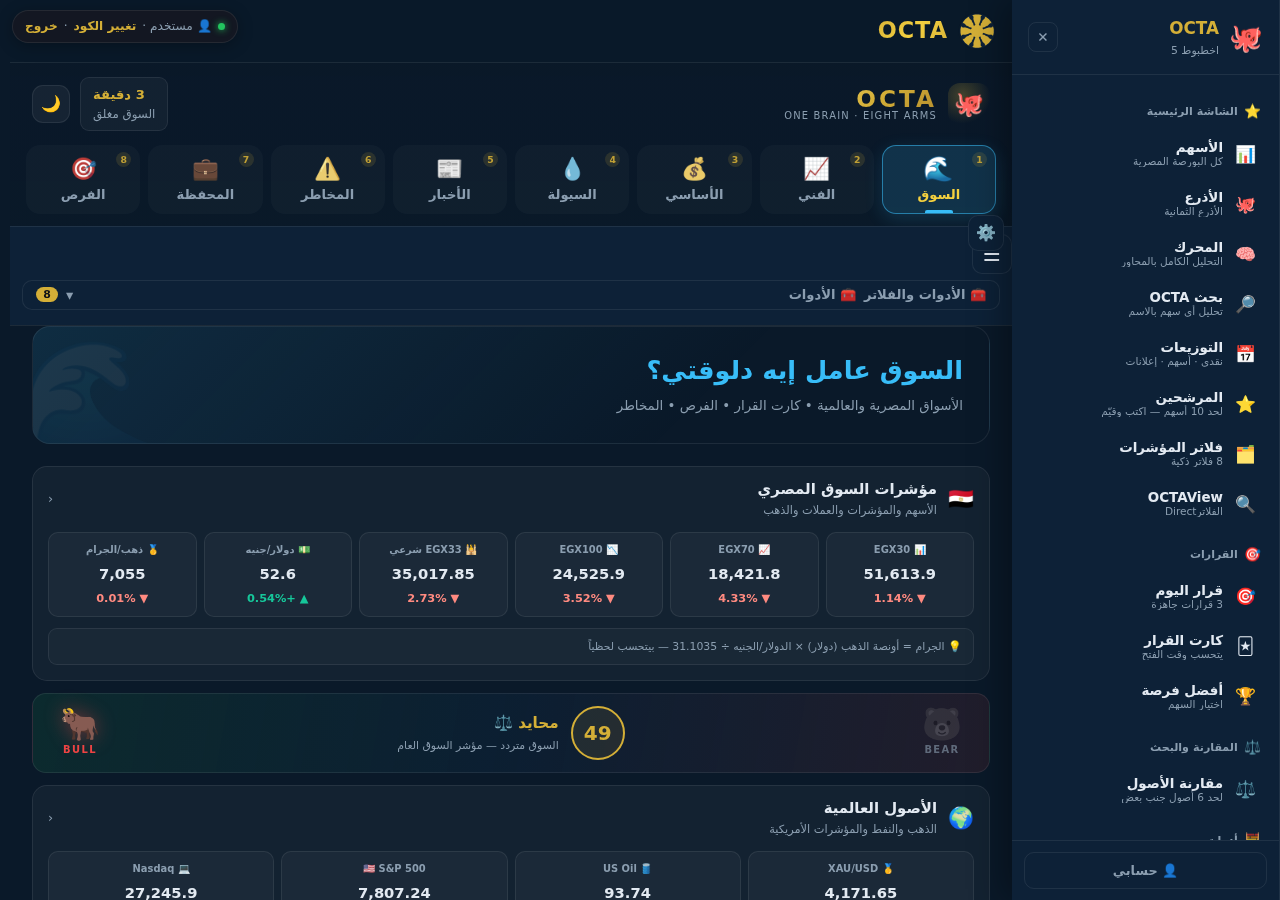
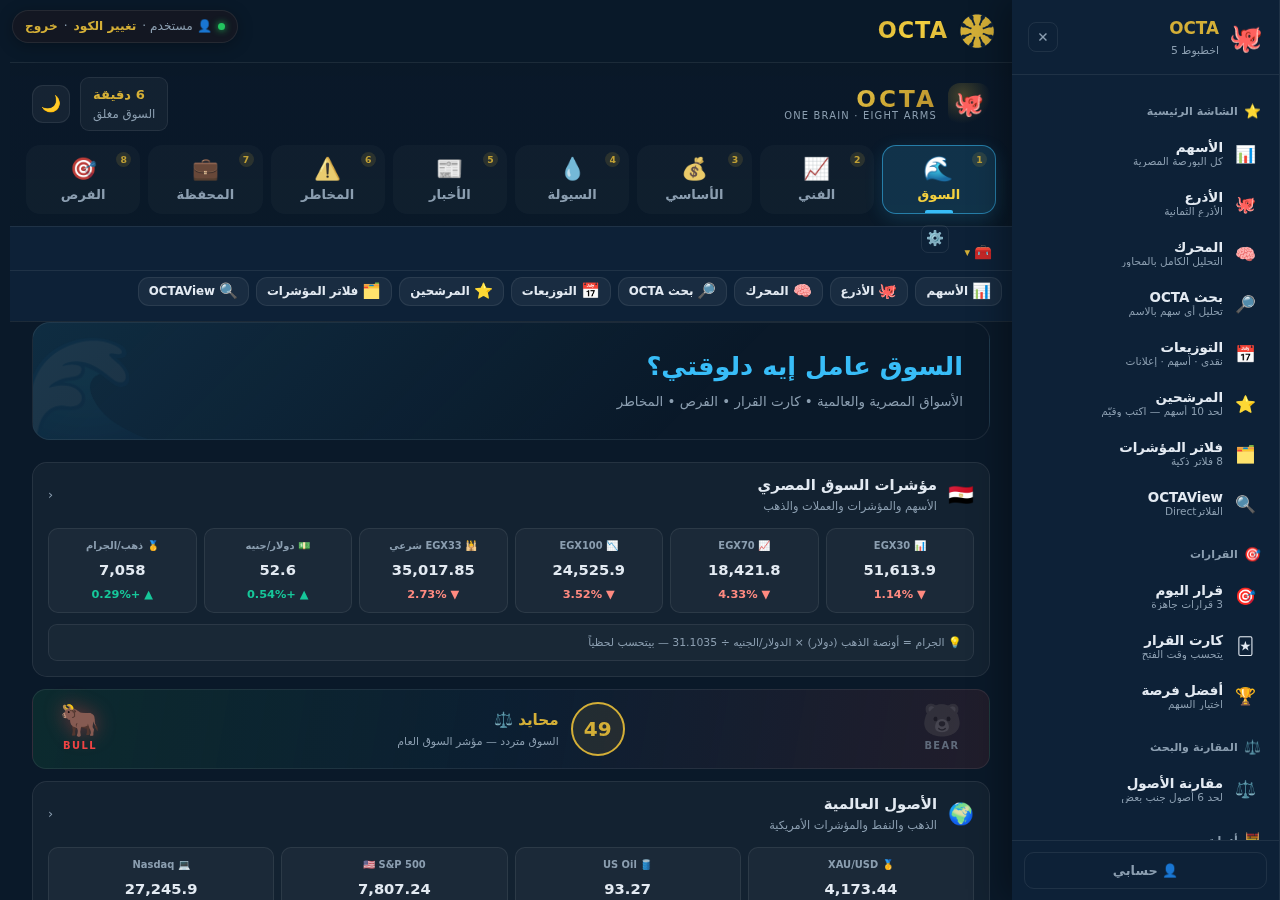
feat(ui): three controls in one row on the inline-start edge
The menu toggle lived in its own block above the toolbar while the
fold and gear sat in another, so the same header carried two rows for
what is now one control group.

☰ 🧰 ⚙ now sit side by side at the same 30px height, all flush to the
inline-start edge, with the tool row beneath them.

diff --git a/index.html b/index.html
@@ -7,7 +7,7 @@
   <script id="octa-cache-clear">
   /* 🧹 مسح كاش التطبيق — يخلي أي تعديل جديد يوصل فوراً */
   (function () {
-    var BUILD = 'v=2026105827';
+    var BUILD = 'v=2026105477';
     var KEY = 'octa_build_v1';
     try {
       var prev = localStorage.getItem(KEY);
@@ -32,11 +32,11 @@
   <link rel="icon" type="image/png" href="assets/octa-logo.png">
   <!-- CSS → assets/octa.css -->
 <!-- tokens أولاً — كل الألوان هنا -->
-<link rel="stylesheet" href="assets/octa-tokens.css?v=2026105827">
-<link rel="stylesheet" href="assets/octa.css?v=2026105827">
-  <link rel="stylesheet" href="assets/css-decide.css?v=2026105827">
-  <link rel="stylesheet" href="assets/css-screener.css?v=2026105827">
-  <link rel="stylesheet" href="assets/css-chart.css?v=2026105827">
+<link rel="stylesheet" href="assets/octa-tokens.css?v=2026105477">
+<link rel="stylesheet" href="assets/octa.css?v=2026105477">
+  <link rel="stylesheet" href="assets/css-decide.css?v=2026105477">
+  <link rel="stylesheet" href="assets/css-screener.css?v=2026105477">
+  <link rel="stylesheet" href="assets/css-chart.css?v=2026105477">
 </head>
 <body>
 
@@ -117,13 +117,14 @@
 
     <!-- ══════════ شريط الأدوات والفلاتر (من الرابط القديم — زي ما هو) ══════════ -->
     <div class="toolbar-wrap">
-      <!-- ⚙ⓘ الزرارين جنب بعض — كروت واحد مضغوط -->
+      <!-- ☰ 🧰 ⚙ — صف واحد، كلهم على الشمال بنفس الارتفاع -->
       <div class="tb-head">
+        <button class="tb-btn" onclick="sbToggle()" title="القائمة الجانبية">☰</button>
         <button class="tb-fold" id="mToolsBtn" onclick="toggleMobileTools()"
                 aria-expanded="true" aria-controls="toolbar" title="طيّ / فتح الأدوات">
           <span class="tb-f-i">🧰</span><span class="tb-f-c">▾</span>
         </button>
-        <button class="tool-cfg" id="toolCfg" onclick="openToolEditor()" title="رتّب الأدوات">⚙</button>
+        <button class="tb-btn tool-cfg" id="toolCfg" onclick="openToolEditor()" title="رتّب الأدوات">⚙</button>
       </div>
 
       <div class="toolbar" id="toolbar"></div>
@@ -1034,22 +1035,22 @@
     </div>
   </div>
 
-<script src="assets/js/octa-api.js?v=2026105827"></script>
-<script src="assets/js/octa-config.js?v=2026105827"></script>
-<script src="assets/js/octa-core.js?v=2026105827"></script>
-<script src="assets/js/octa-stats.js?v=2026105827"></script>
-<script src="assets/js/octa-auth.js?v=2026105827"></script>
-<script src="assets/js/octa-gate.js?v=2026105827"></script>
-<script src="assets/js/octa-sidebar.js?v=2026105827"></script>
-<script src="assets/js/octa-dev.js?v=2026105827"></script>
-<script src="assets/js/octa-clock.js?v=2026105827"></script>
-<script src="assets/js/octa-screener.js?v=2026105827"></script>
-<script src="assets/js/octa-chart.js?v=2026105827"></script>
-<script src="assets/js/octa-pages.js?v=2026105827"></script>
-<script src="assets/js/octa-app.js?v=2026105827"></script>
-<script src="assets/js/octa-filters.js?v=2026105827"></script>
-<script src="assets/js/octa-watch.js?v=2026105827"></script>
-<script src="assets/js/octa-decide.js?v=2026105827"></script>
+<script src="assets/js/octa-api.js?v=2026105477"></script>
+<script src="assets/js/octa-config.js?v=2026105477"></script>
+<script src="assets/js/octa-core.js?v=2026105477"></script>
+<script src="assets/js/octa-stats.js?v=2026105477"></script>
+<script src="assets/js/octa-auth.js?v=2026105477"></script>
+<script src="assets/js/octa-gate.js?v=2026105477"></script>
+<script src="assets/js/octa-sidebar.js?v=2026105477"></script>
+<script src="assets/js/octa-dev.js?v=2026105477"></script>
+<script src="assets/js/octa-clock.js?v=2026105477"></script>
+<script src="assets/js/octa-screener.js?v=2026105477"></script>
+<script src="assets/js/octa-chart.js?v=2026105477"></script>
+<script src="assets/js/octa-pages.js?v=2026105477"></script>
+<script src="assets/js/octa-app.js?v=2026105477"></script>
+<script src="assets/js/octa-filters.js?v=2026105477"></script>
+<script src="assets/js/octa-watch.js?v=2026105477"></script>
+<script src="assets/js/octa-decide.js?v=2026105477"></script>
 <!-- 🛠 أدوات المطوّر — بتظهر بالمصادفة ولا ما فيش زرار عادي -->
 <div class="octa-devbar">
   <button class="dev-hidden-gate" onclick="OCTADev.toggle()"

diff --git a/assets/octa.css b/assets/octa.css
@@ -4946,6 +4946,23 @@ body.sb-open .sb-scrim { display: block; }
   transition: background .14s, border-color .14s;
 }
 .tb-fold:hover { background: rgba(212, 175, 55, .1); border-color: rgba(212, 175, 55, .3); }
+
+/* ☰ و ⚙ — نفس الارتفاع والتوازي بتاع 🧰 بالظبط */
+.tb-btn {
+  display: flex;
+  align-items: center;
+  justify-content: center;
+  width: 30px;
+  height: 30px;
+  font-size: 1rem;
+  color: var(--muted);
+  background: transparent;
+  border: 1px solid var(--line);
+  border-radius: 7px;
+  cursor: pointer;
+  transition: border-color .14s, color .14s;
+}
+.tb-btn:hover { border-color: var(--gold); color: var(--gold); }
 .tb-fold .tb-f-c {
   font-size: .7rem;
   transition: transform .22s cubic-bezier(.4, 0, .2, 1);
